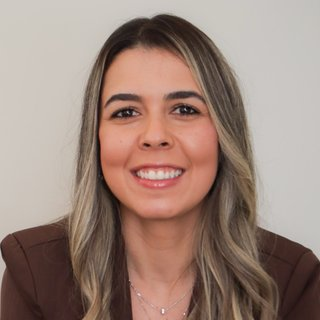
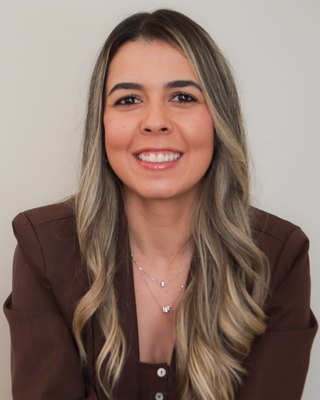
Visual premium: paleta marfim e dourado, Cormorant + Jost, foto em arco
Claude-Session: https://claude.ai/code/session_013CZqzq8arM8cMZfiQiMrcd

diff --git a/index.html b/index.html
@@ -5,73 +5,58 @@
 <meta name="viewport" content="width=device-width, initial-scale=1">
 <title>Daiane Stefano Nutrição</title>
 <link rel="preconnect" href="https://fonts.googleapis.com">
-<link href="https://fonts.googleapis.com/css2?family=Playfair+Display:ital,wght@0,500;0,600;1,500&family=DM+Sans:wght@400;500;600;700&display=swap" rel="stylesheet">
+<link href="https://fonts.googleapis.com/css2?family=Cormorant+Garamond:ital,wght@0,500;0,600;1,500&family=Jost:wght@300;400;500&display=swap" rel="stylesheet">
 <style>
-/* VOICE: premium nutritionist, calm and direct; one link for everything
-   IDEA: a link-in-bio card that opens into a small, well-kept shop
-   PICTURE: the DS monogram crest on deep green, then the real product photos
-   COLOUR and TYPE: brand dark green, cream, gold detail, sage; Playfair Display + DM Sans
-   LAYOUT: green header with name and main buttons, sticky category jumps, product grid, footer */
+/* VOICE: quiet luxury, a nutritionist's private boutique
+   IDEA: an editorial shop page, like a premium magazine's shopping column
+   PICTURE: arched portrait with a hairline champagne ring, then large product photos
+   COLOUR and TYPE: ivory ground, deep brand green ink, champagne gold hairlines; Cormorant Garamond + Jost
+   LAYOUT: slim bar with logo and categories, centred intro, airy product grid, small print */
 :root{color-scheme:light dark;
---bg:light-dark(#faf8f3,#121a16);--card:light-dark(#ffffff,#1a2520);--ink:light-dark(#1e2b25,#eef1ec);
---soft:light-dark(#5f6b64,#a8b5ad);--green:#1e4034;--sage:light-dark(#6f8467,#9db592);--gold:#b8860b;
---sand:light-dark(#f1ece3,#22302a);--line:light-dark(#e6e0d4,#2c3a33)}
+--bg:light-dark(#fbf9f5,#101714);--card:light-dark(#ffffff,#16201c);--ink:light-dark(#1e4034,#ece8df);
+--text:light-dark(#2b2b28,#e6e2d9);--soft:light-dark(#7a766d,#a7a397);--gold:light-dark(#b8975a,#cdb07a);
+--sand:light-dark(#f3eee6,#1c2622);--line:light-dark(#e9e2d5,#26312c)}
 :root[data-theme=light]{color-scheme:light}:root[data-theme=dark]{color-scheme:dark}
 *{box-sizing:border-box;min-width:0}
-html{scroll-behavior:smooth;scroll-padding-top:72px}
-@media(max-width:600px){html{scroll-padding-top:120px}}
-body{margin:0;background:var(--bg);color:var(--ink);font:16px/1.55 'DM Sans',system-ui,sans-serif;overflow-x:clip;-webkit-font-smoothing:antialiased;padding-bottom:24px}
+html{scroll-behavior:smooth;scroll-padding-top:76px}
+body{margin:0;background:var(--bg);color:var(--text);font:300 16px/1.65 Jost,system-ui,sans-serif;overflow-x:clip;-webkit-font-smoothing:antialiased}
 .wrap{max-width:1120px;margin:0 auto}
-.pad{padding-inline:max(4vw,14px)}
-.head{background:var(--green);color:#f6f2e8;padding-block:clamp(30px,5vw,56px) clamp(28px,4vw,44px);text-align:center}
-.crest{width:84px;height:84px;margin:0 auto 14px;display:block}
-h1{font:600 clamp(28px,4vw,40px)/1.1 'Playfair Display',Georgia,serif;margin:0 0 6px}
-.role{margin:0 0 4px;font-weight:600;color:#d9c48f;font-size:15px}
-.tag{margin:0 auto 24px;max-width:44ch;color:#cdd8d1;font-size:15.5px}
-.links{display:grid;gap:12px;max-width:520px;margin:0 auto}
-.lk{display:flex;align-items:center;justify-content:center;gap:10px;min-height:54px;padding:0 20px;border-radius:14px;text-decoration:none;font-weight:600;font-size:16px;color:#f6f2e8;border:1px solid rgba(246,242,232,.35)}
-.lk.main{background:#f6f2e8;color:var(--green);border-color:#f6f2e8}
-.lk svg{width:22px;height:22px;flex:none}
-.lk:focus-visible,.jump a:focus-visible,.card:focus-visible,.search:focus-visible,.wa:focus-visible{outline:2px solid var(--gold);outline-offset:3px}
-.bar{position:sticky;top:0;z-index:10;background:color-mix(in srgb,var(--bg) 94%,transparent);backdrop-filter:blur(10px);border-bottom:1px solid var(--line)}
-.bar .wrap{display:flex;gap:14px;align-items:center;padding-block:10px}
-.brand{display:flex;align-items:center;gap:9px;text-decoration:none;color:var(--ink);flex:none}
-.brand img{height:46px;width:auto;display:block}
-.brand{background:light-dark(transparent,#faf8f3);border-radius:10px;padding:2px 6px}
-.brand span{font:600 16px/1.1 'Playfair Display',Georgia,serif;display:flex;flex-direction:column}
-.brand small{font:500 12px 'DM Sans';color:var(--soft)}
-@media(max-width:600px){.bar .wrap{flex-wrap:wrap;gap:10px}.jump{flex-basis:100%}.brand img{height:40px}}
-.jump{display:flex;gap:8px;overflow-x:auto;scrollbar-width:none;flex:1}
+.pad{padding-inline:max(5vw,18px)}
+.bar{position:sticky;top:0;z-index:10;background:color-mix(in srgb,var(--bg) 92%,transparent);backdrop-filter:blur(12px);border-bottom:1px solid var(--line)}
+.bar .wrap{display:flex;gap:24px;align-items:center;padding-block:12px}
+.brand{flex:none;display:block;background:light-dark(transparent,#fbf9f5);border-radius:8px;padding:2px 6px}
+.brand img{height:44px;width:auto;display:block}
+.jump{display:flex;gap:22px;overflow-x:auto;scrollbar-width:none;flex:1;justify-content:flex-end}
 .jump::-webkit-scrollbar{display:none}
-.jump a{flex:none;display:flex;align-items:center;min-height:38px;padding:0 15px;border:1px solid var(--line);border-radius:999px;background:var(--card);text-decoration:none;color:var(--ink);font-weight:600;font-size:14px}
-.jump a.on{background:var(--green);color:#f6f2e8;border-color:var(--green)}
-.search{flex:0 0 170px;min-height:40px;border:1px solid var(--line);border-radius:999px;padding:0 14px;font:16px 'DM Sans';background:var(--card);color:var(--ink)}
-.shop{padding-top:20px}
-.hello{display:flex;gap:14px;align-items:center}
-.hello img{width:64px;height:64px;border-radius:50%;object-fit:cover;flex:none;border:2px solid var(--gold)}
-.hello h2{font:600 clamp(24px,3.2vw,34px)/1.1 'Playfair Display',Georgia,serif;margin:0 0 4px}
-.hello p{margin:0;color:var(--soft);font-size:15px}
-.shop>h2{font:600 clamp(26px,3.2vw,34px)/1.1 'Playfair Display',Georgia,serif;margin:0 0 4px}
-.shop>p{margin:0;color:var(--soft);font-size:15px}
-.sec{padding-top:34px}
-.sec h3{font:500 clamp(21px,2.6vw,26px)/1.15 'Playfair Display',Georgia,serif;margin:0 0 14px;display:flex;align-items:baseline;gap:10px}
-.sec h3 small{font:500 14px 'DM Sans';color:var(--soft)}
-.grid{display:grid;grid-template-columns:repeat(auto-fill,minmax(min(100%,220px),1fr));gap:28px 18px}
-.card{display:flex;flex-direction:column;gap:8px;text-decoration:none;color:inherit;border-radius:16px}
-.thumb{background:var(--sand);border-radius:16px;aspect-ratio:1/1;overflow:hidden}
-.thumb img{width:100%;height:100%;object-fit:cover;display:block;transition:transform .35s ease}
-.card:hover .thumb img{transform:scale(1.03)}
-.card h4{font:600 15px/1.3 'DM Sans';margin:2px 0 0}
-.tip{font-size:14px;line-height:1.45;color:var(--soft);margin:0;flex:1;display:-webkit-box;-webkit-line-clamp:1;-webkit-box-orient:vertical;overflow:hidden}
-.buy{display:flex;align-items:center;justify-content:center;min-height:42px;border-radius:999px;background:var(--green);color:#f6f2e8;font-weight:600;font-size:14px;margin-top:4px}
+.jump a{flex:none;display:flex;align-items:center;min-height:40px;text-decoration:none;color:var(--soft);font:400 12.5px Jost;letter-spacing:.14em;text-transform:uppercase;border-bottom:1px solid transparent;transition:color .2s,border-color .2s}
+.jump a:hover,.jump a.on{color:var(--ink);border-bottom-color:var(--gold)}
+.jump a:focus-visible,.card:focus-visible{outline:1px solid var(--gold);outline-offset:4px}
+.shop{padding-top:clamp(34px,6vw,64px)}
+.hello{display:flex;flex-direction:column;align-items:center;text-align:center;gap:14px;max-width:520px;margin:0 auto}
+.hello>div{display:flex;flex-direction:column;align-items:inherit;gap:10px}
+.hello img{width:104px;height:130px;object-fit:cover;border-radius:52px 52px 14px 14px;outline:1px solid var(--gold);outline-offset:5px;display:block}
+.hello .kick{font:400 11.5px Jost;letter-spacing:.24em;text-transform:uppercase;color:var(--gold);margin:6px 0 0}
+.hello h2{font:500 clamp(34px,5vw,48px)/1.05 'Cormorant Garamond',Georgia,serif;color:var(--ink);margin:0}
+.hello h2 em{font-style:italic}
+.hello p{margin:0;color:var(--soft);font-size:16px}
+.sec{padding-top:clamp(44px,6vw,72px)}
+.sec h3{font:400 12.5px Jost;letter-spacing:.22em;text-transform:uppercase;color:var(--ink);margin:0 0 22px;display:flex;align-items:center;gap:16px}
+.sec h3::after{content:"";flex:1;height:1px;background:var(--line)}
+.grid{display:grid;grid-template-columns:repeat(auto-fill,minmax(min(100%,230px),1fr));gap:36px 22px}
+.card{display:flex;flex-direction:column;gap:10px;text-decoration:none;color:inherit}
+.thumb{background:var(--sand);border-radius:6px;aspect-ratio:1/1;overflow:hidden}
+.thumb img{width:100%;height:100%;object-fit:cover;display:block;transition:transform .6s ease}
+.card:hover .thumb img{transform:scale(1.04)}
+.card h4{font:500 20px/1.2 'Cormorant Garamond',Georgia,serif;color:var(--ink);margin:4px 0 0}
+.tip{font-size:14px;line-height:1.5;color:var(--soft);margin:0;flex:1;display:-webkit-box;-webkit-line-clamp:2;-webkit-box-orient:vertical;overflow:hidden}
+.buy{align-self:flex-start;display:inline-flex;align-items:center;gap:8px;min-height:40px;font:400 12.5px Jost;letter-spacing:.18em;text-transform:uppercase;color:var(--ink);border-bottom:1px solid var(--gold)}
+.buy::after{content:"→";letter-spacing:0;transition:transform .2s}
+.card:hover .buy::after{transform:translateX(4px)}
 .empty{padding:40px 0;text-align:center;color:var(--soft)}
-.note{font-size:13px;color:var(--soft);max-width:760px;margin:44px 0 0;padding-top:18px;border-top:1px solid var(--line)}
-footer{padding-block:18px 28px;font-size:13.5px;color:var(--soft)}
-footer a{color:var(--ink);font-weight:600}
-.wa{position:fixed;right:max(16px,env(safe-area-inset-right));bottom:max(16px,env(safe-area-inset-bottom));z-index:20;display:flex;align-items:center;gap:8px;min-height:52px;padding:0 18px 0 14px;border-radius:999px;background:#1f9d55;color:#fff;text-decoration:none;font-weight:700;font-size:14.5px;box-shadow:0 8px 24px rgba(0,0,0,.2)}
-.wa svg{width:24px;height:24px;flex:none}
-@media(max-width:600px){.search{flex-basis:110px}.grid{grid-template-columns:1fr 1fr;gap:18px 10px}.card h4{font-size:14px}.tip{font-size:13px}.buy{min-height:40px;font-size:13.5px}}
-@media(prefers-reduced-motion:reduce){html{scroll-behavior:auto}.thumb img{transition:none}.card:hover .thumb img{transform:none}}
+.note{font-size:12.5px;color:var(--soft);max-width:720px;margin:72px auto 0;padding-top:22px;border-top:1px solid var(--line);text-align:center}
+footer{padding-block:20px 40px;font:400 11.5px Jost;letter-spacing:.2em;text-transform:uppercase;color:var(--soft);text-align:center}
+@media(max-width:600px){html{scroll-padding-top:118px}.bar .wrap{flex-wrap:wrap;gap:6px;justify-content:center}.jump{flex-basis:100%;justify-content:flex-start;gap:18px}.brand img{height:38px}.grid{grid-template-columns:1fr 1fr;gap:28px 12px}.card h4{font-size:17px}.tip{font-size:13px;-webkit-line-clamp:1}.buy{font-size:11px;letter-spacing:.14em}.shop{padding-top:22px}.hello{flex-direction:row;text-align:left;align-items:center;gap:16px;max-width:none}.hello>div{display:flex;flex-direction:column;gap:2px;align-items:flex-start}.hello img{width:68px;height:86px;border-radius:34px 34px 10px 10px;outline-offset:4px;flex:none}.hello .kick{margin:0;font-size:10.5px}.hello h2{font-size:28px}.hello p{font-size:14px;line-height:1.45}.sec{padding-top:34px}}
+@media(prefers-reduced-motion:reduce){html{scroll-behavior:auto}.thumb img,.jump a{transition:none}.card:hover .thumb img{transform:none}}
 </style>
 </head>
 <body>
@@ -84,7 +69,7 @@ footer a{color:var(--ink);font-weight:600}
 
 <main class="wrap pad">
   <section class="shop" id="loja">
-    <div class="hello"><img src="img/daiane.jpg" alt="Daiane Stefano, nutricionista" width="64" height="64"><div><h2>Facilite sua rotina</h2>
+    <div class="hello"><img src="img/daiane.jpg" alt="Daiane Stefano, nutricionista"><div><p class="kick">Seleção da nutri</p><h2>Facilite sua <em>rotina</em></h2>
     <p>Oi, eu sou a Daiane, nutricionista. Separei o que facilita a rotina de quem quer comer bem.</p></div></div>
     <div id="list"></div>
   </section>
@@ -128,7 +113,7 @@ const render=()=>{
  }).join('');
  list.innerHTML=html||'<p class="empty">Nenhum produto encontrado. Tente outra palavra.</p>';
  if(io)io.disconnect();
- io=new IntersectionObserver(es=>{for(const e of es)if(e.isIntersecting){for(const a of jump.children)a.classList.toggle('on',a.dataset.c===e.target.id);const on=jump.querySelector('.on');if(on)jump.scrollTo({left:on.offsetLeft-14,behavior:'smooth'})}},{rootMargin:'-80px 0px -60% 0px'});
+ io=new IntersectionObserver(es=>{for(const e of es)if(e.isIntersecting){for(const a of jump.children)a.classList.toggle('on',a.dataset.c===e.target.id);const on=jump.querySelector('.on');if(on)jump.scrollTo({left:on.offsetLeft-jump.offsetLeft-14,behavior:'smooth'})}},{rootMargin:'-80px 0px -60% 0px'});
  list.querySelectorAll('.sec').forEach(s=>io.observe(s));
 };
 render();
